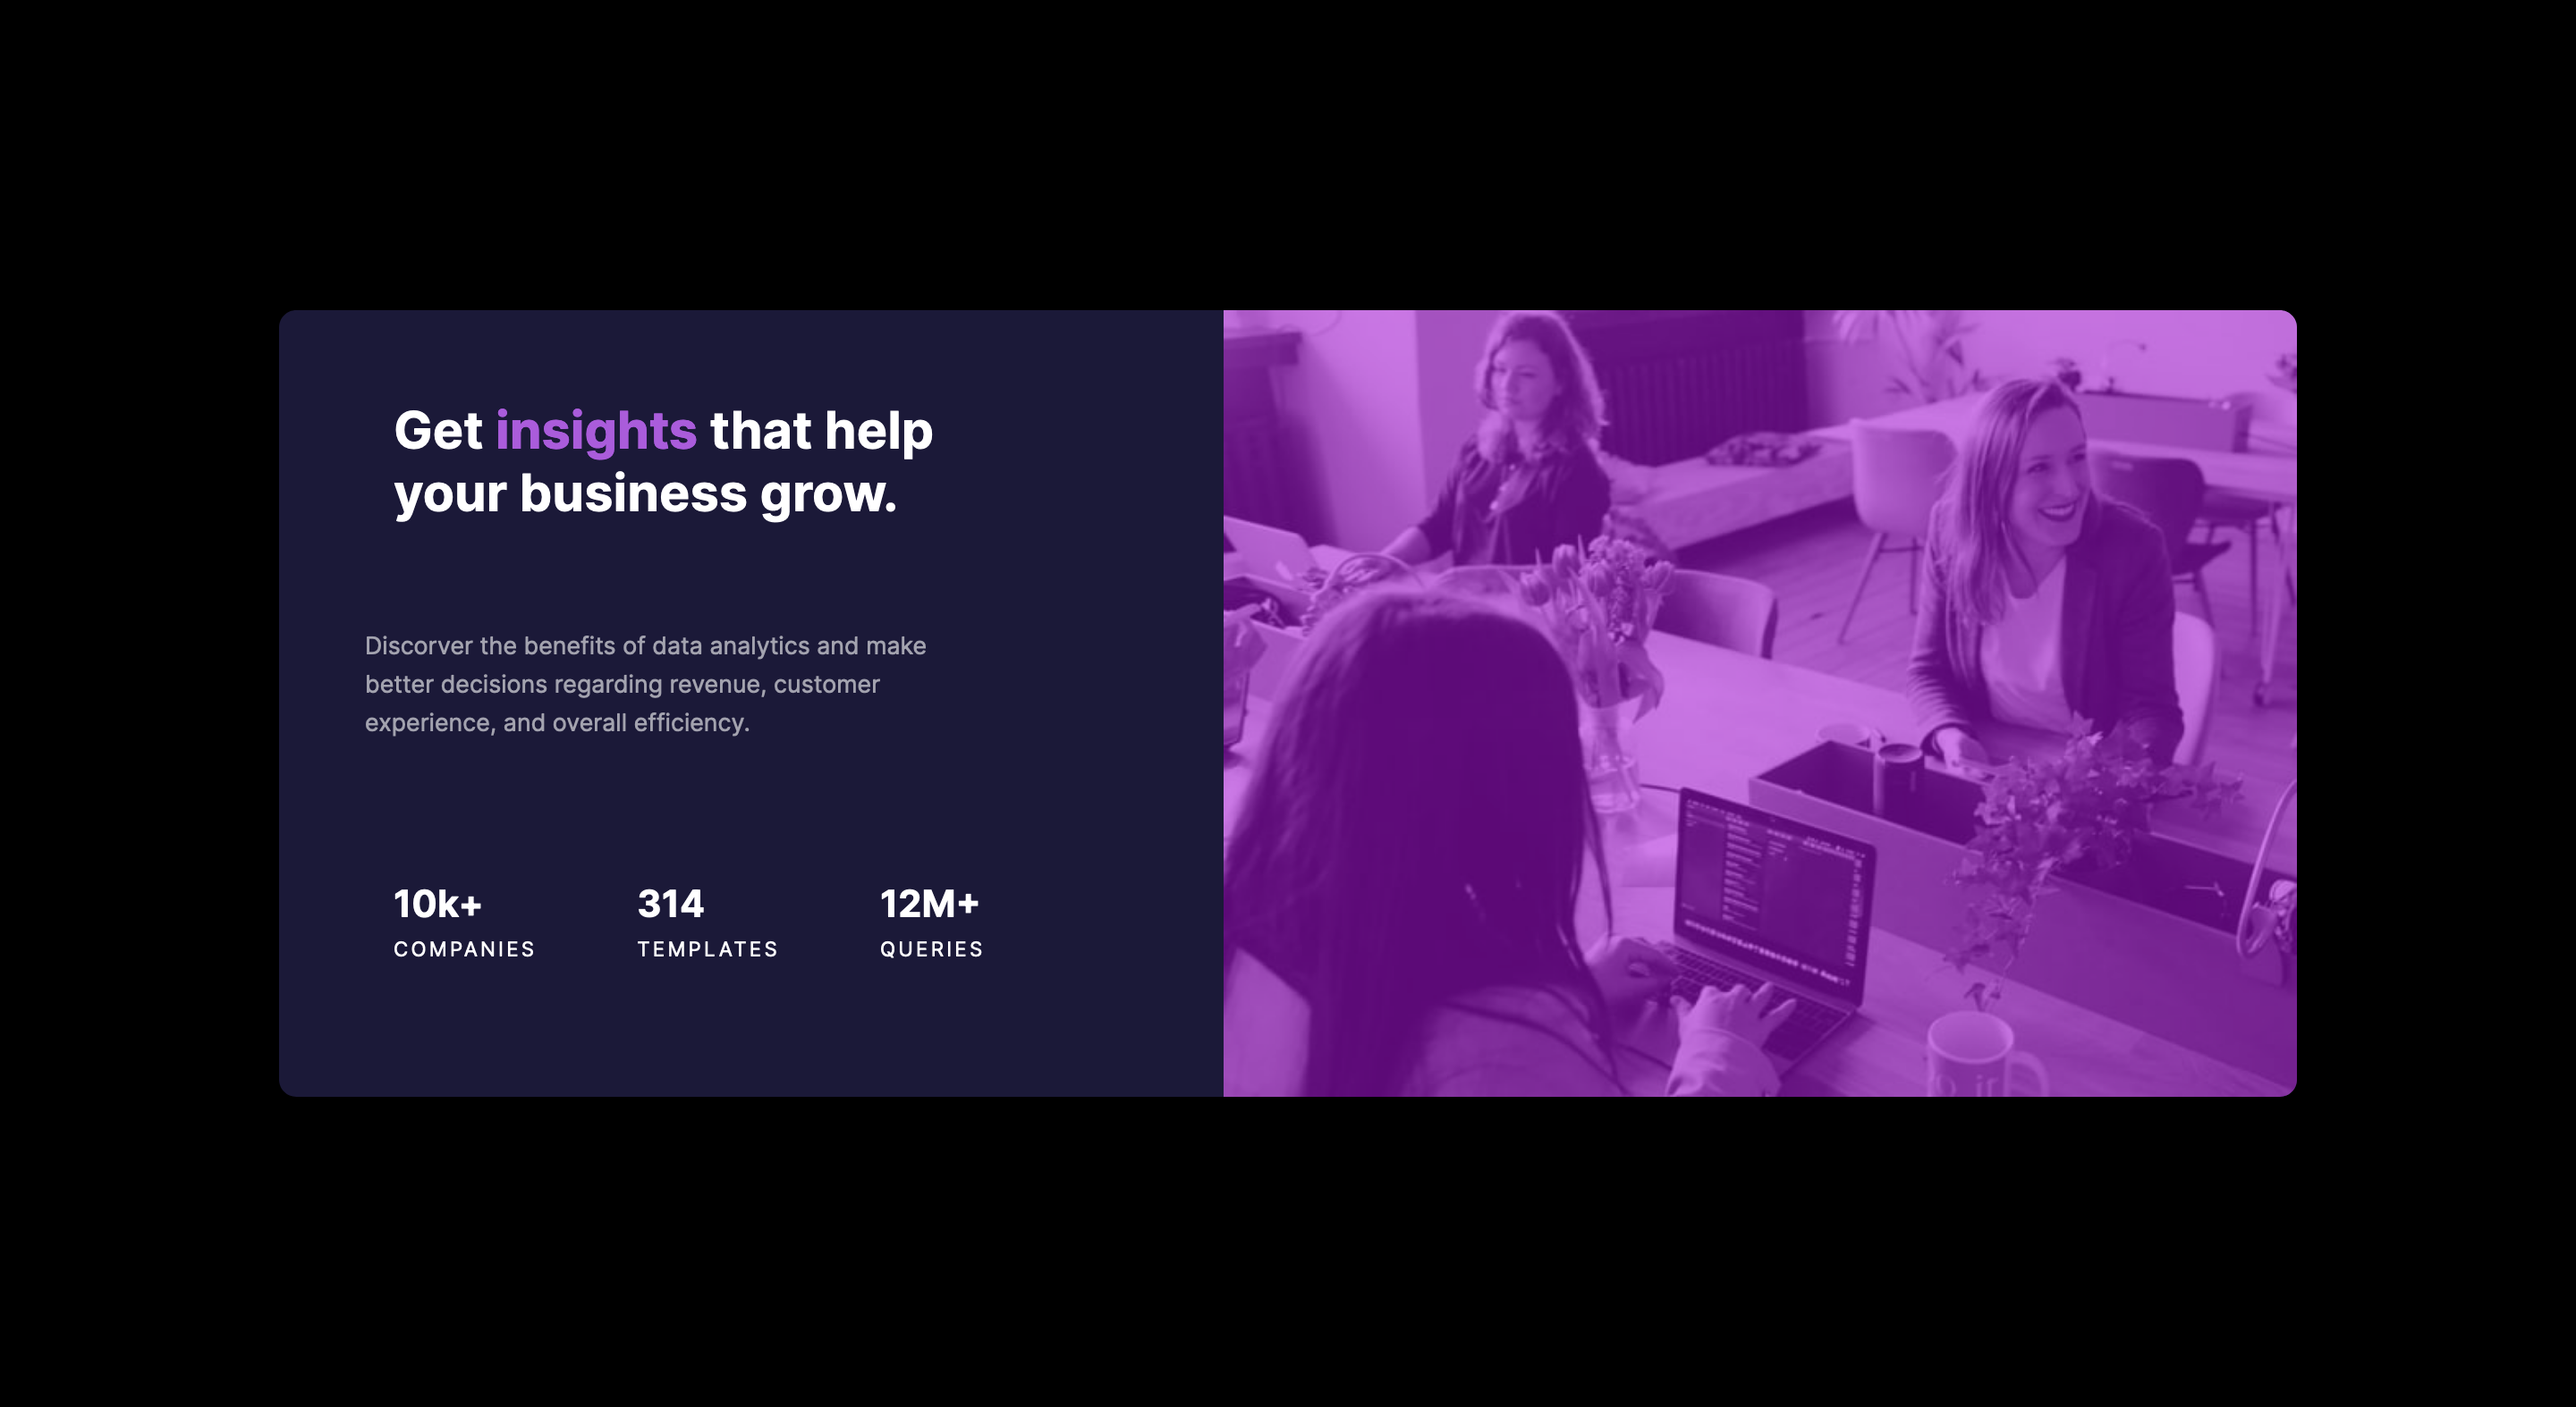
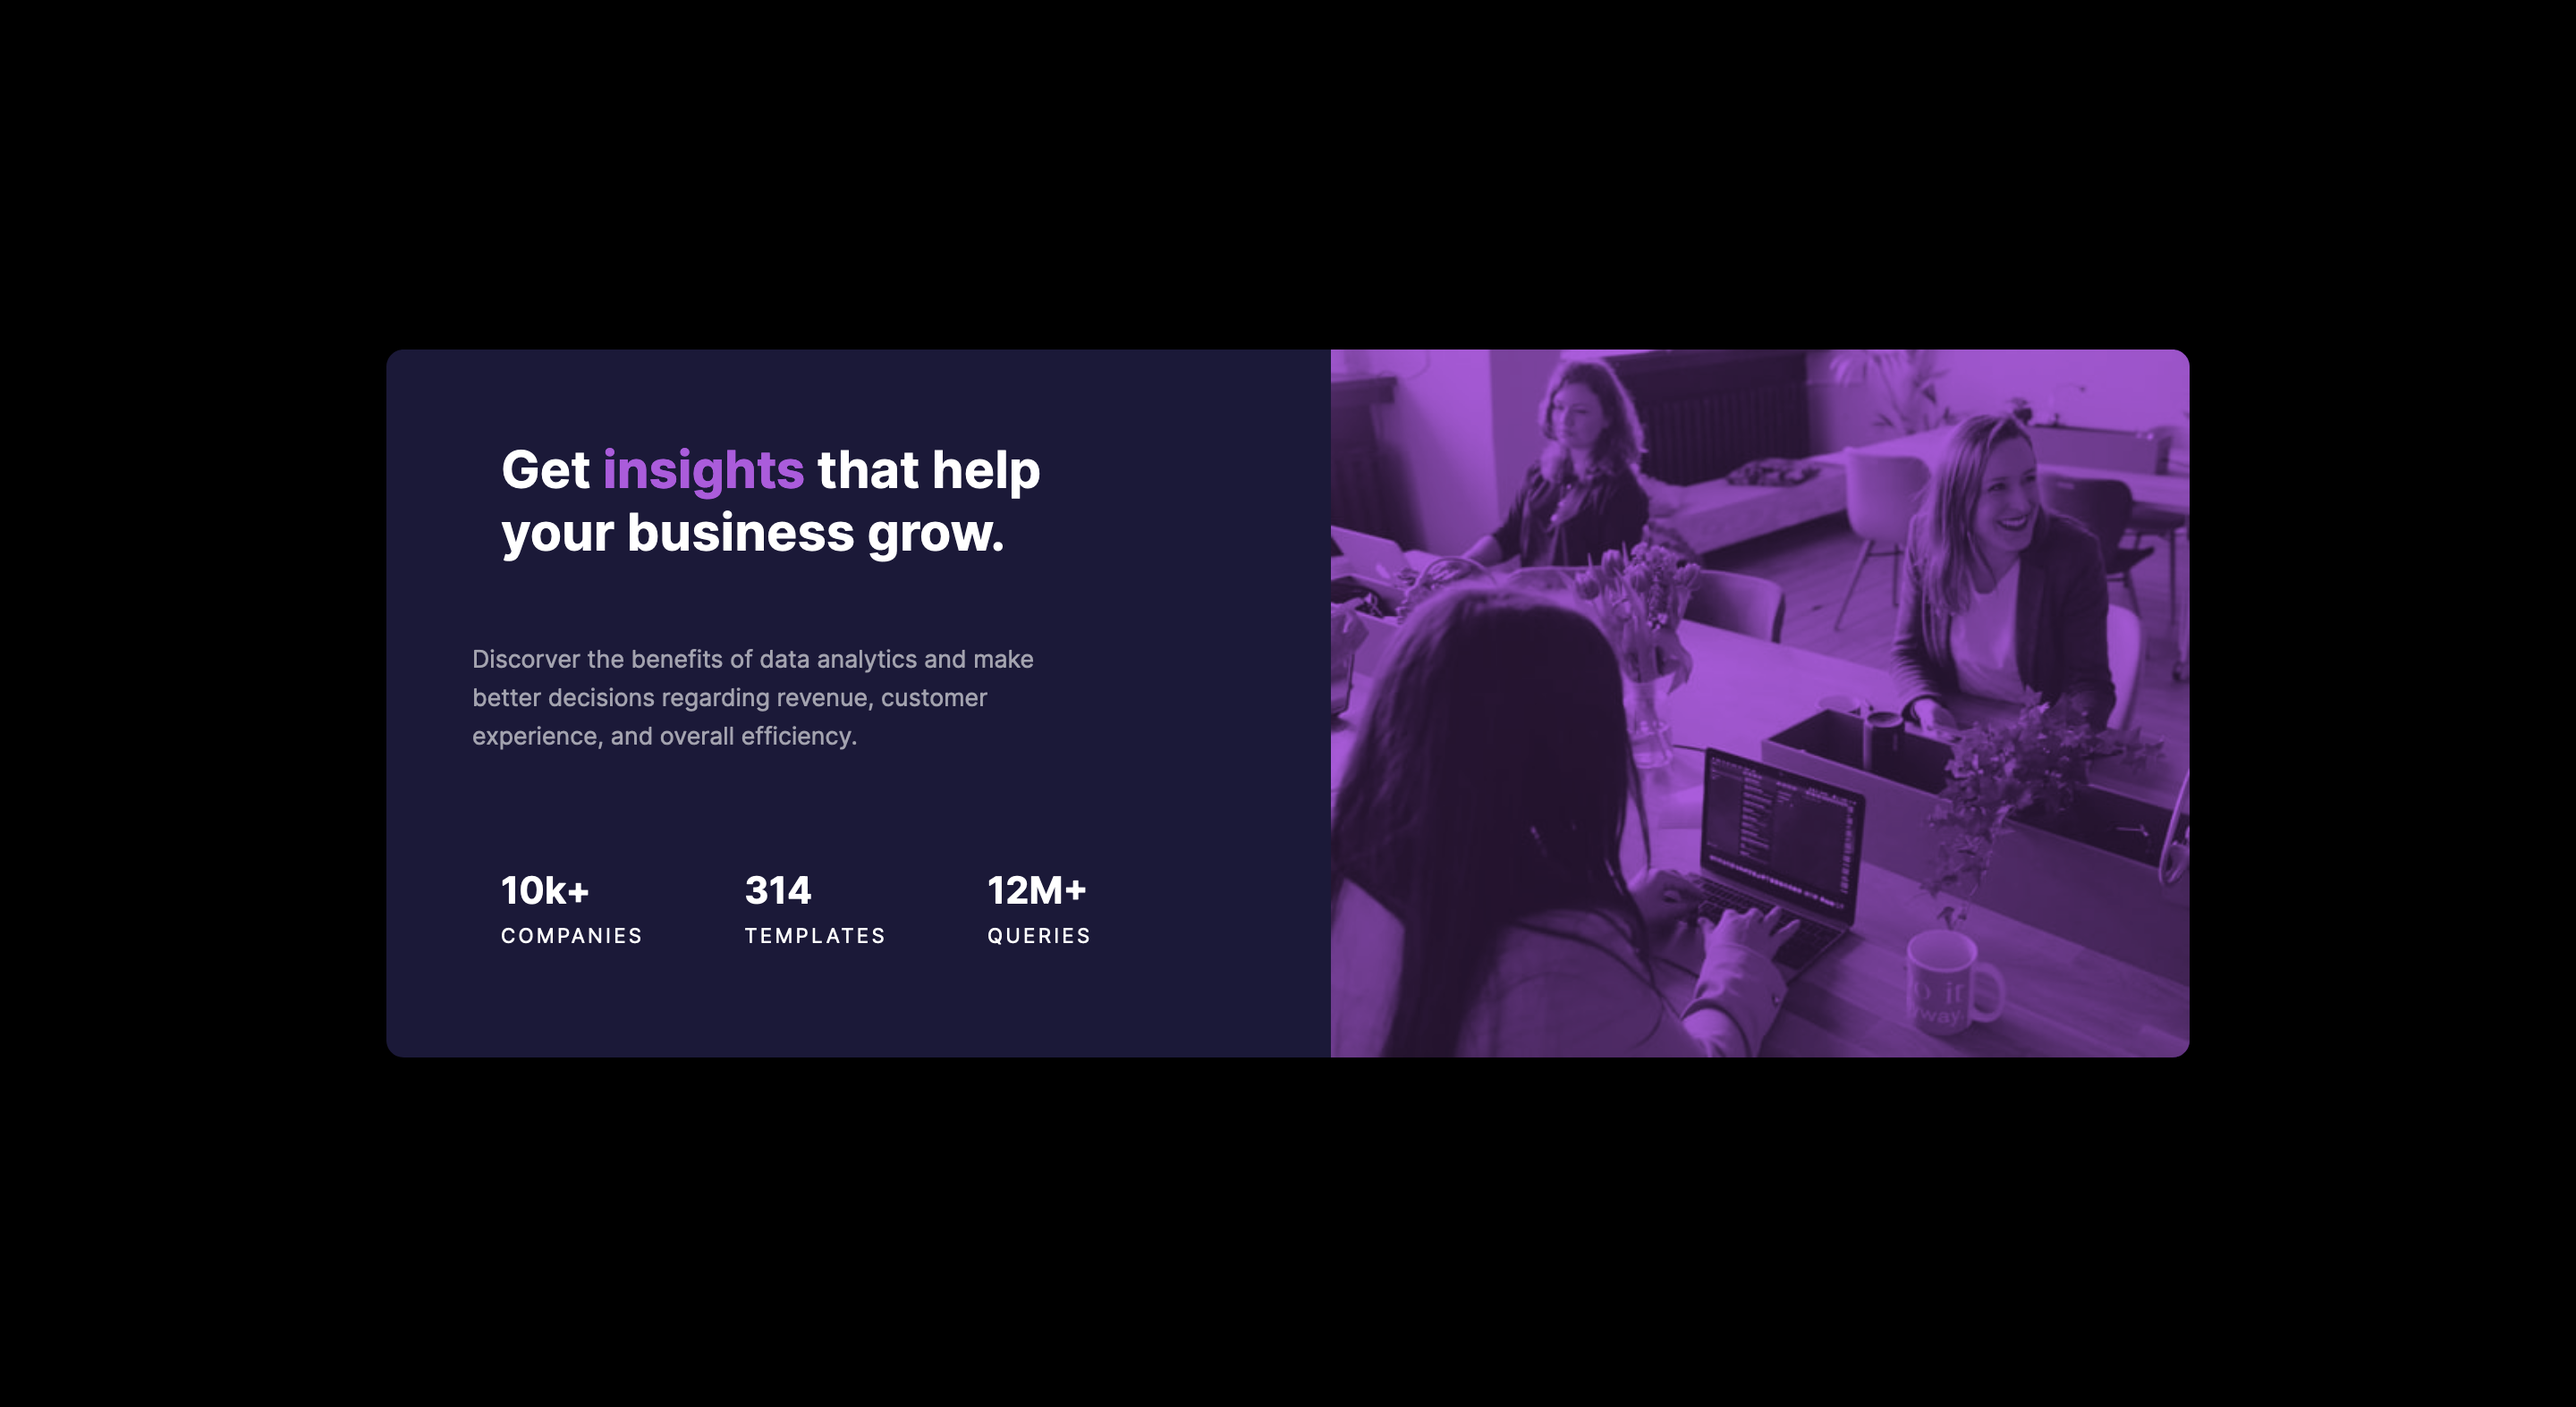
fixed hero images and images source

Changed region(s): [[0.0938, 0.2179, 0.9062, 0.7783]]

diff --git a/styles.css b/styles.css
@@ -95,14 +95,20 @@ body {
 main {
   display: flex;
   justify-content: center;
-  height: fit-content;
-  width: fit-content;
+  max-width: fit-content;
   border-radius: .6rem;
   margin: 1rem;
+
+}
+
+img {
+  opacity: .8;
+  mix-blend-mode: multiply;
 }
 
 .hero-img {
   border-radius: 0.6rem 0.6rem 0 0;
+  background-color: hsl(277, 64%, 61%);
 }
 
 
@@ -113,7 +119,7 @@ main {
   justify-content: flex-start;
   flex-direction: column;
   gap: 2rem;
-  width: fit-content;
+  max-width: fit-content;
   border-radius: .6rem;
 }
 
@@ -181,6 +187,7 @@ main {
   main {
     display: flex;
     flex-direction: row;
+    max-width: 1440px;
   }
 
   .card-container {
@@ -188,14 +195,18 @@ main {
     display: flex;
     flex-direction: row-reverse;
     gap: 2rem;
+    max-width: 1440px;
+    border-radius: .6rem;
+
   }
 
-  .hero {
-    width: 600px;
+  img {
+    max-width: 480px;
   }
 
   .hero-img {
     border-radius: 0 0.6rem 0.6rem 0;
+
   }
 
   .hero-title {

diff --git a/index.html b/index.html
@@ -16,13 +16,11 @@
   <body>
     <main>
       <article class="card-container">
-        <header class="hero">
-          <img
-            class="hero-img"
-            src="images/header-img.png"
-            alt="a photo of three women working at an office with their computers"
-          />
-        </header>
+        <picture class="hero-img">
+          <source media="(min-width: 678px)" srcset="images/img-desktop.jpg 446w">
+          <source media="(min-width: 375px)" srcset="images/img-mobile.jpg 480w">
+          <img class="hero-img" src="images/img-desktop.jpg" alt="">
+        </picture>
         <div class="text-content">
           <h1 class="hero-title">
             Get <span class="title-accent">insights</span> that help your

diff --git a/README.md b/README.md
@@ -1,22 +1,33 @@
-Frontend Mentor - Stats preview card component solution
+# Frontend Mentor - Stats Preview Card Component
 
-This is a solution to the Stats preview card component challenge on Frontend Mentor. Frontend Mentor challenges help you improve your coding skills by building realistic projects.
+This is a solution to the [Testimonials grid section challenge on Frontend Mentor](https://www.frontendmentor.io/challenges/stats-preview-card-component-8JqbgoU62/hub). Frontend Mentor challenges help you improve your coding skills by building realistic projects. 
 
-    Screenshot
-    Built with
-    Links
 
-Screenshot
+## Table of contents
 
-#Links
+  - [Screenshot](#screenshot)
 
-    #Solution URL: https://fromlukdev.github.io/stats-preview-card-component/
-    Live Site URL: Add live site URL here
+  - [Links](#links)
 
-Built with
+  - [Built with](#built-with)
 
-    Semantic HTML5 markup
-    CSS custom properties
-    Flexbox
-    CSS Grid
-    Mobile-first workflow
+### Screenshot
+
+![](images/screenshot-desktop.png)
+![](images/screenshot-mobile.png)
+
+### Links
+
+- Solution URL: [https://www.frontendmentor.io/solutions/stats-preview-card-component-vLQ7aDGHiK]
+- Live Site URL: [https://fromlukdev.github.io/stats-preview-card-component/]
+
+### Built with
+- Semantic HTML5 markup
+- CSS custom properties
+- Flexbox
+- CSS Grid
+- Mobile-first workflow
+
+## Author
+
+- Frontend Mentor - [Lucas Santos](https://www.frontendmentor.io/profile/FromlukDev)
